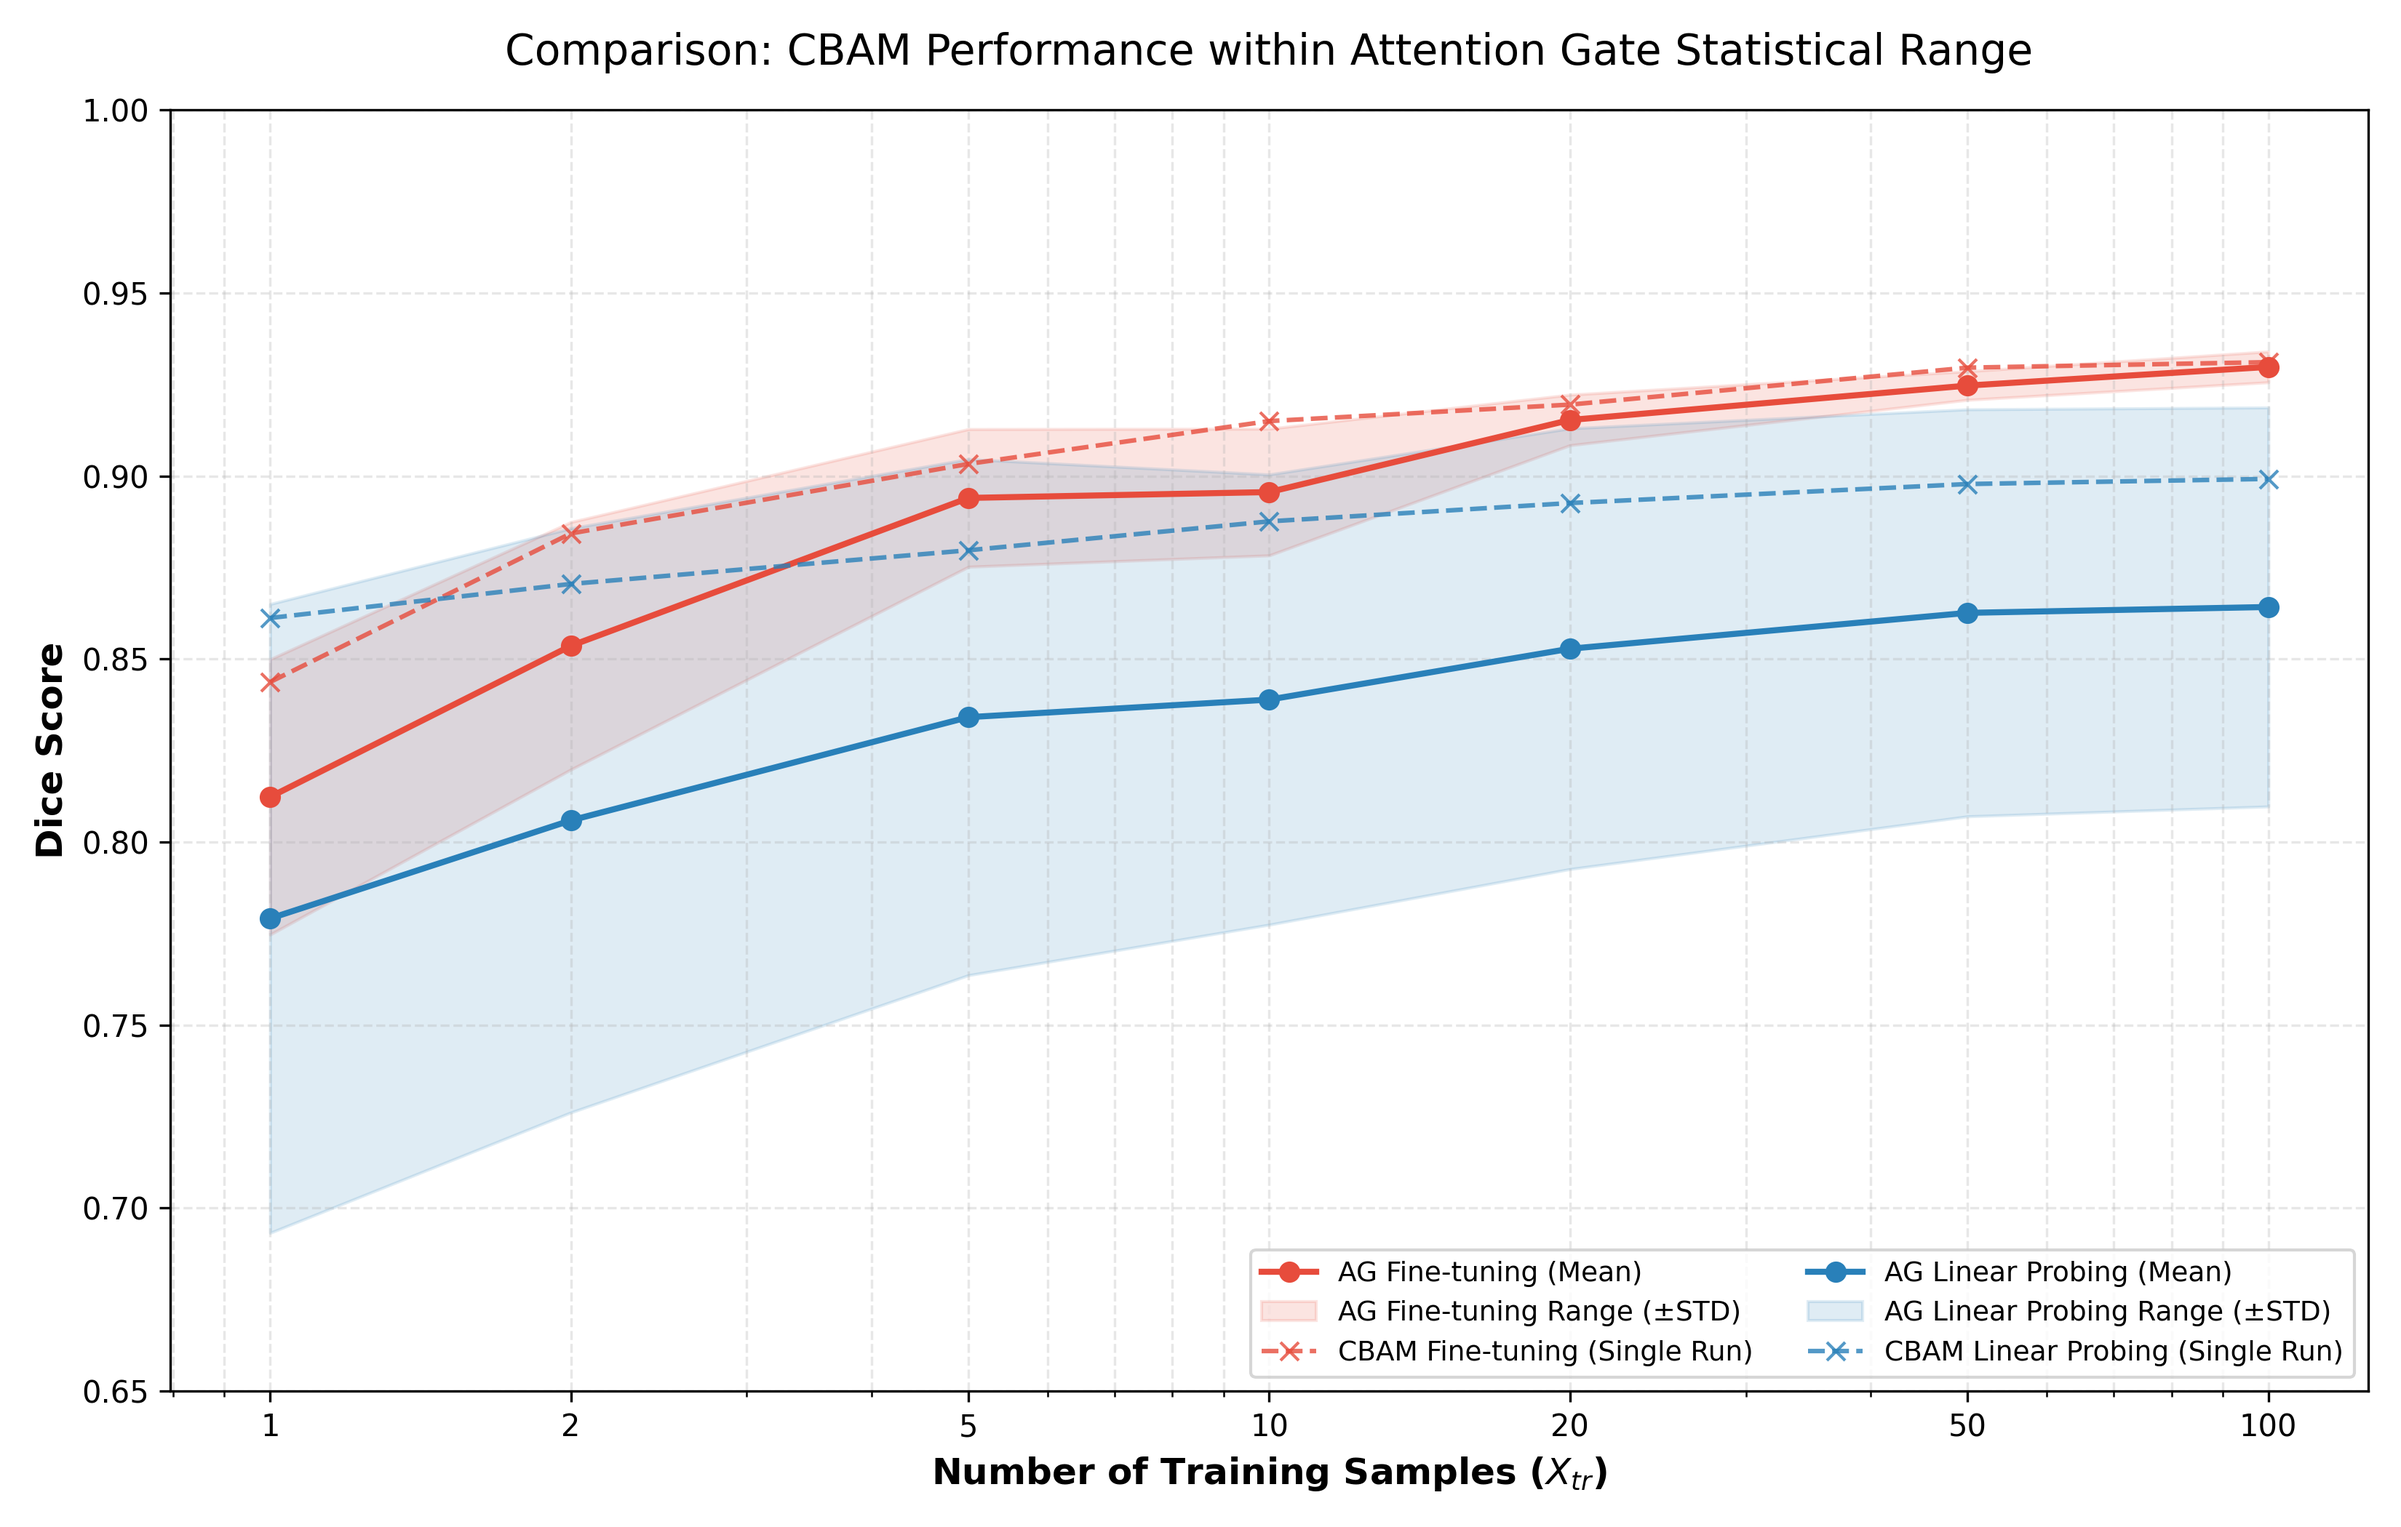
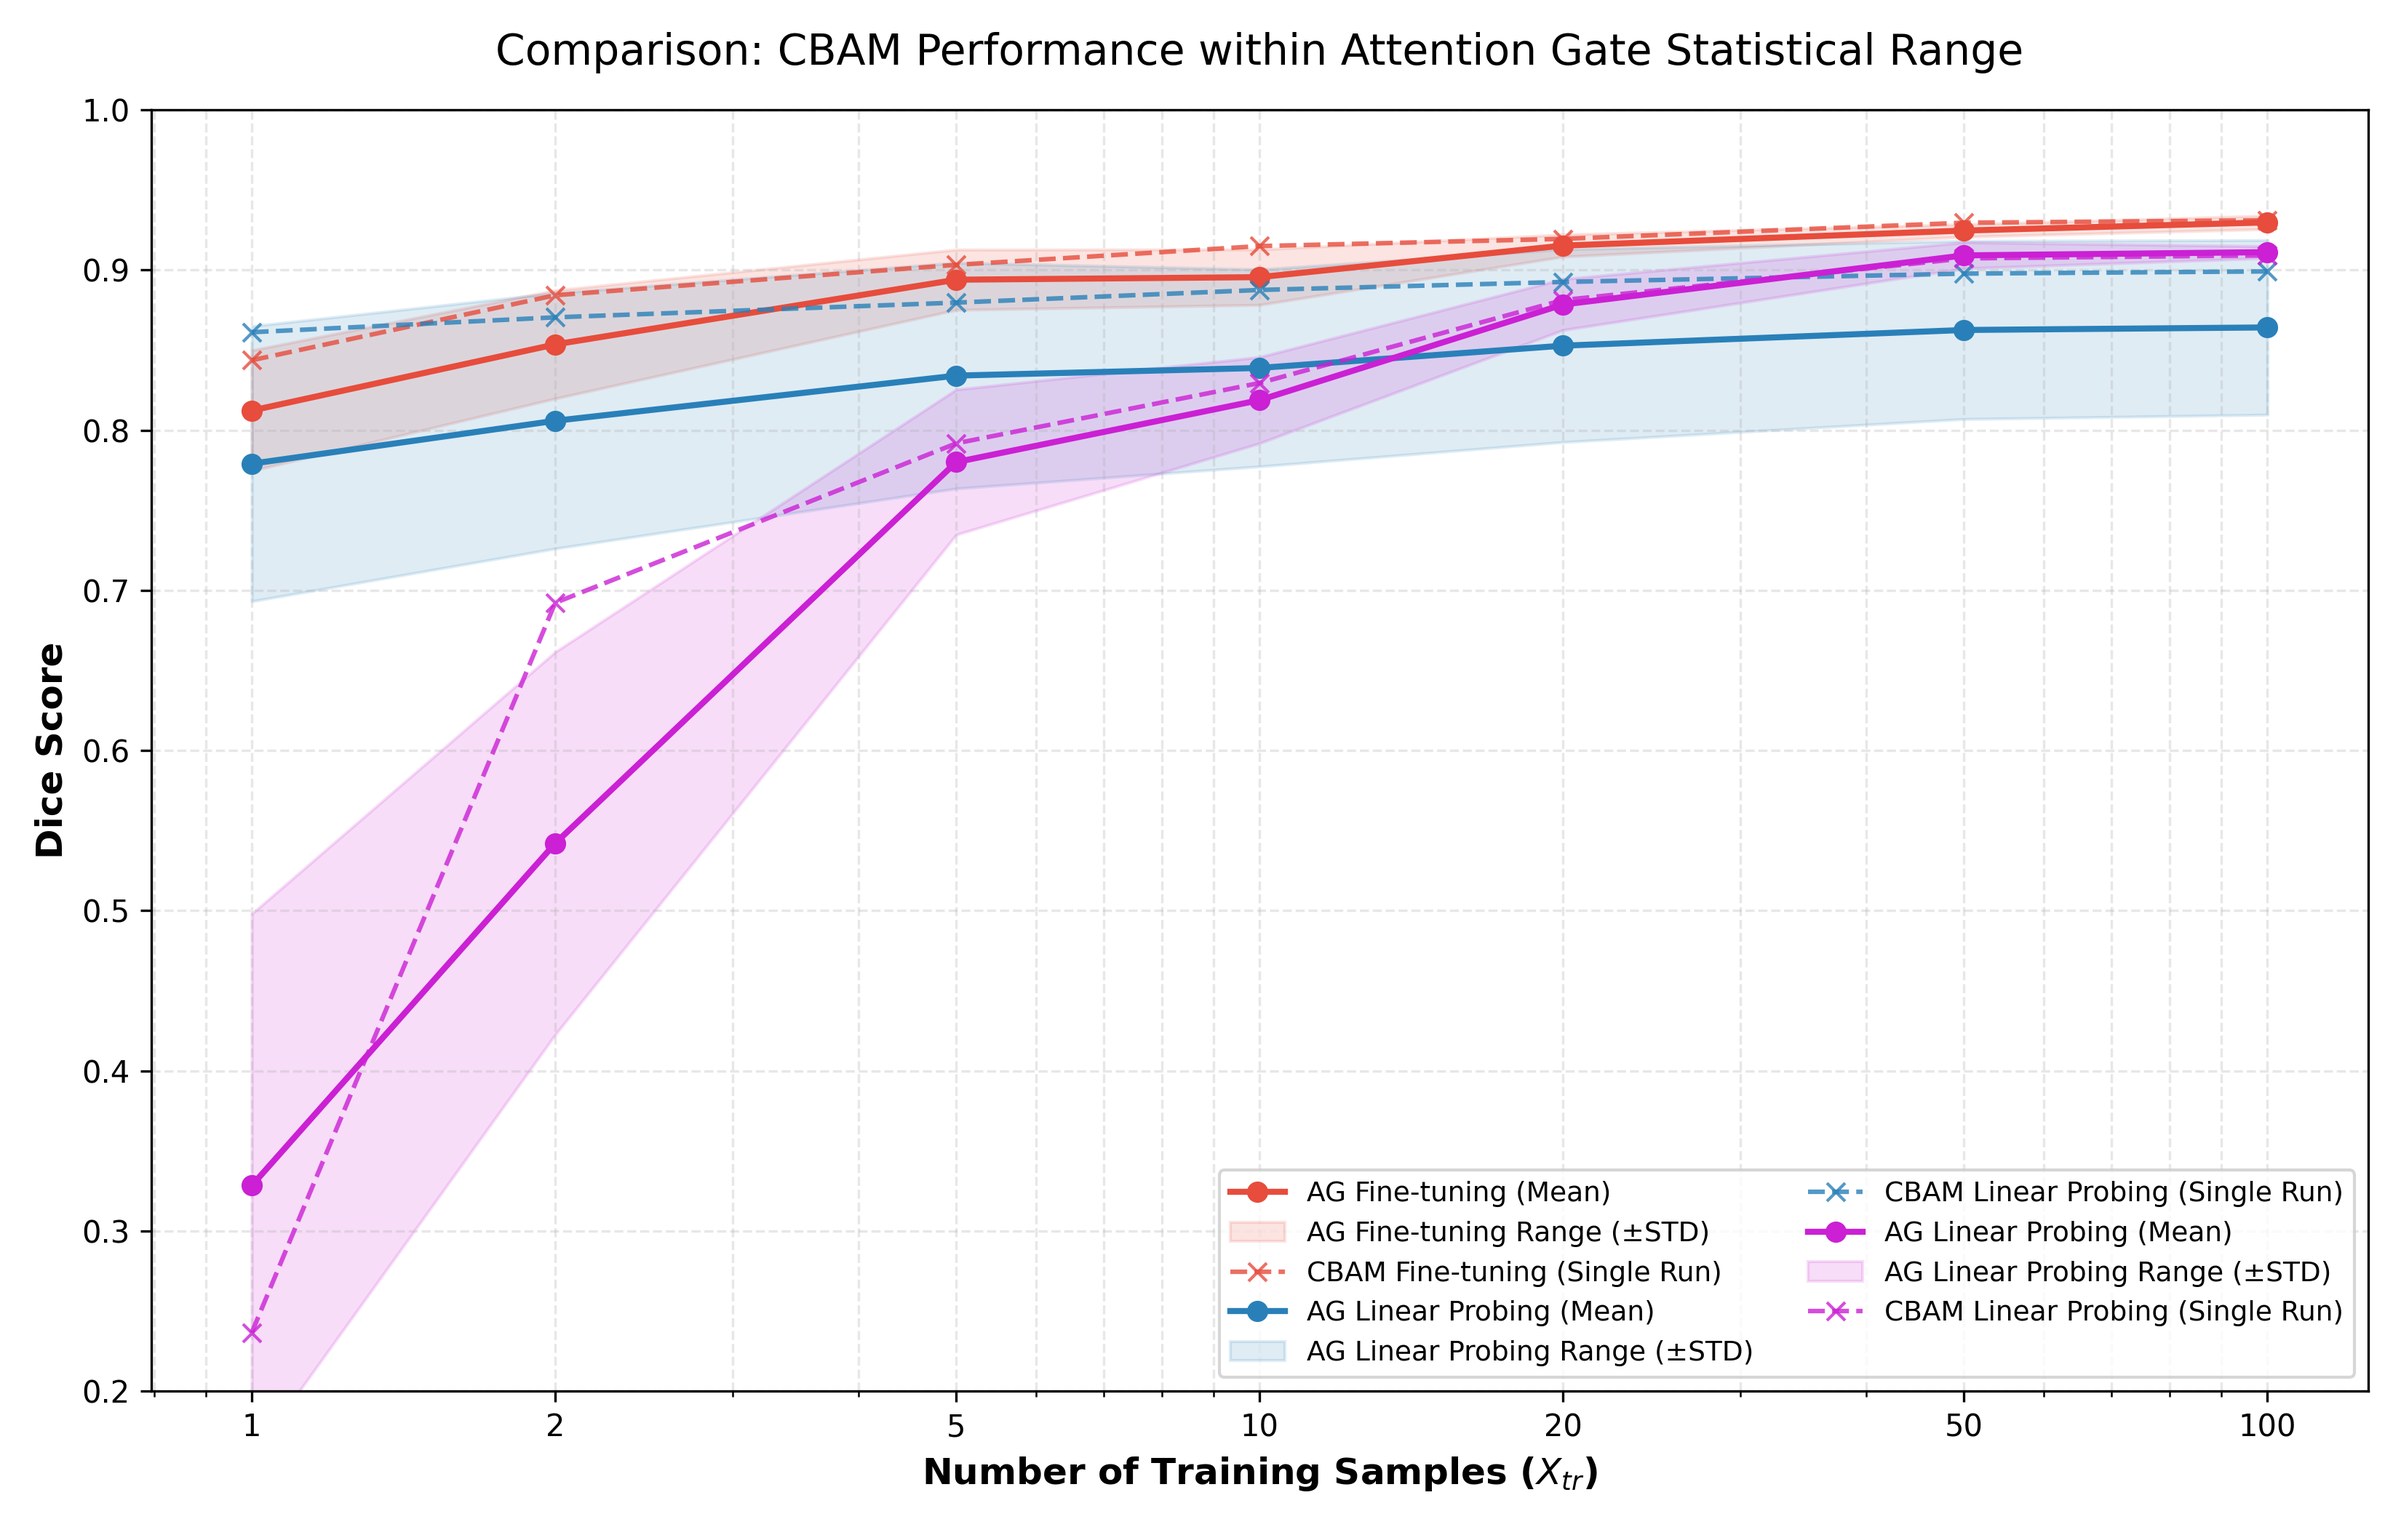
add ablation

diff --git a/scripts/plotfigure3.py b/scripts/plotfigure3.py
@@ -1,0 +1,44 @@
+import matplotlib.pyplot as plt
+import numpy as np
+
+# 1. 准备横坐标 (训练样本数)
+xtr = np.array([1, 2, 5, 10, 20, 50, 100])
+
+# 2. 录入数据 (严格对应 image_6a0e1b.png 中的五列)
+baseline = np.array([0.204787, 0.625860, 0.705163, 0.783891, 0.864405, 0.905403, 0.908972])
+prop_lp  = np.array([0.773207, 0.789962, 0.824008, 0.836641, 0.846135, 0.858308, 0.860078])
+prop_ft  = np.array([0.812115, 0.842301, 0.879014, 0.899784, 0.908765, 0.921762, 0.926952])
+rand_lp  = np.array([0.764679, 0.784530, 0.813589, 0.832655, 0.844301, 0.847094, 0.853709])
+rand_ft  = np.array([0.812254, 0.829822, 0.876437, 0.897298, 0.911452, 0.923532, 0.926414])
+rand_fe  = np.array([0.802691, 0.830659, 0.874530, 0.894828, 0.907998, 0.916102, 0.921648])
+
+# 3. 开始绘图
+plt.figure(figsize=(10, 6.5), dpi=120)
+
+# 绘制 Baseline
+plt.plot(xtr, baseline, label='Baseline (Scratch)', color='#95a5a6', marker='o', linestyle=':', linewidth=2)
+
+# 绘制 Proposed (使用实线)
+plt.plot(xtr, prop_lp, label='Proposed Linear Probing', color='#2980b9', marker='s', linewidth=2)
+plt.plot(xtr, prop_ft, label='Proposed (Fine-tuning)', color='#c0392b', marker='^', linewidth=2)
+
+# 绘制 Randomized Attention (使用同色系的虚线，方便视觉归类)
+plt.plot(xtr, rand_lp, label='Randomized Attn (LP)', color='#3498db', marker='s', linestyle='--', alpha=0.7)
+plt.plot(xtr, rand_ft, label='Randomized Attn (FT)', color='#e74c3c', marker='^', linestyle='--', alpha=0.7)
+plt.plot(xtr, rand_fe,  label='Randomized Attn (Frozen Encoder)', color="#de3ce7", marker='^', linestyle='--', alpha=0.7)
+
+# 4. 图表细节优化
+plt.xscale('log') # 使用对数坐标更清晰地展示小样本区间的巨大差异
+plt.xticks(xtr, labels=['1', '2', '5', '10', '20', '50', '100'])
+plt.xlabel('Number of Training Samples ($X_{tr}$)', fontsize=11)
+plt.ylabel('Dice Score', fontsize=11)
+plt.title('Ablation Study: Impact of Pre-trained vs. Randomized Attention', fontsize=13, pad=15)
+plt.ylim(0.15, 1.0) # 考虑到 Baseline 的起始点
+
+plt.grid(True, which="both", ls="--", alpha=0.3)
+plt.legend(loc='lower right', fontsize=9)
+
+plt.tight_layout()
+# 保存并显示
+plt.savefig('ablation_comparison_5_lines.png', dpi=300)
+plt.show()

diff --git a/scripts/plotfigure2.py b/scripts/plotfigure2.py
@@ -5,6 +5,9 @@ import numpy as np
 xtr = np.array([1, 2, 5, 10, 20, 50, 100])
 
 # --- Attention Gate (AG) 数据: Mean 和 STD ---
+ag_mean_bl = np.array([0.3283, 0.5420, 0.7801, 0.8188, 0.8785, 0.9092, 0.9112])
+ag_std_bl  = np.array([0.1697, 0.1195, 0.0453, 0.0269, 0.0159, 0.0081, 0.0037])
+
 ag_mean_ft = np.array([0.8123, 0.8536, 0.8940, 0.8956, 0.9153, 0.9247, 0.9298])
 ag_std_ft  = np.array([0.0376, 0.0338, 0.0188, 0.0173, 0.0069, 0.0039, 0.0042])
 
@@ -12,6 +15,7 @@ ag_mean_lp = np.array([0.7791, 0.8059, 0.8341, 0.8389, 0.8528, 0.8626, 0.8642])
 ag_std_lp  = np.array([0.0859, 0.0798, 0.0705, 0.0615, 0.0602, 0.0556, 0.0545])
 
 # --- CBAM 数据: 单次 Run 结果 ---
+cbam_bl = np.array([0.2365, 0.6922, 0.7918, 0.8295, 0.8813, 0.9073, 0.9092])
 cbam_ft = np.array([0.8437, 0.8843, 0.9033, 0.9150, 0.9195, 0.9296, 0.9311])
 cbam_lp = np.array([0.8612, 0.8705, 0.8797, 0.8876, 0.8926, 0.8978, 0.8992])
 
@@ -32,10 +36,12 @@ plot_with_range(xtr, ag_mean_ft, ag_std_ft, cbam_ft, 'Fine-tuning', '#e74c3c')
 # 绘制 Linear Probing (LP) 组 - 蓝色系
 plot_with_range(xtr, ag_mean_lp, ag_std_lp, cbam_lp, 'Linear Probing', '#2980b9')
 
+plot_with_range(xtr, ag_mean_bl, ag_std_bl, cbam_bl, 'Linear Probing', "#cb20d4")
+
 # 3. 图表修饰
 plt.xscale('log')
 plt.xticks(xtr, xtr)
-plt.ylim(0.65, 1.0) # 根据数据范围调整起始点
+plt.ylim(0.2, 1.0) # 根据数据范围调整起始点
 plt.xlabel('Number of Training Samples ($X_{tr}$)', fontsize=12, fontweight='bold')
 plt.ylabel('Dice Score', fontsize=12, fontweight='bold')
 plt.title('Comparison: CBAM Performance within Attention Gate Statistical Range', fontsize=14, pad=15)

diff --git a/scripts/train_ablation_2.py b/scripts/train_ablation_2.py
@@ -96,7 +96,7 @@ if __name__ == '__main__':
                                     nn.init.constant_(layer.bias, 0)
                 
                 for name, param in cl_model.model.named_parameters():
-                    if any(x in name for x in ['inc', 'down', 'x6']):
+                    if any(x in name for x in ['inc', 'down', 'x6', 'up']):
                         param.requires_grad = False
                 avg_train_losses, avg_val_losses = cl_model.run_ablation(training_loader, validation_loader, k)
             elif j == 2:
